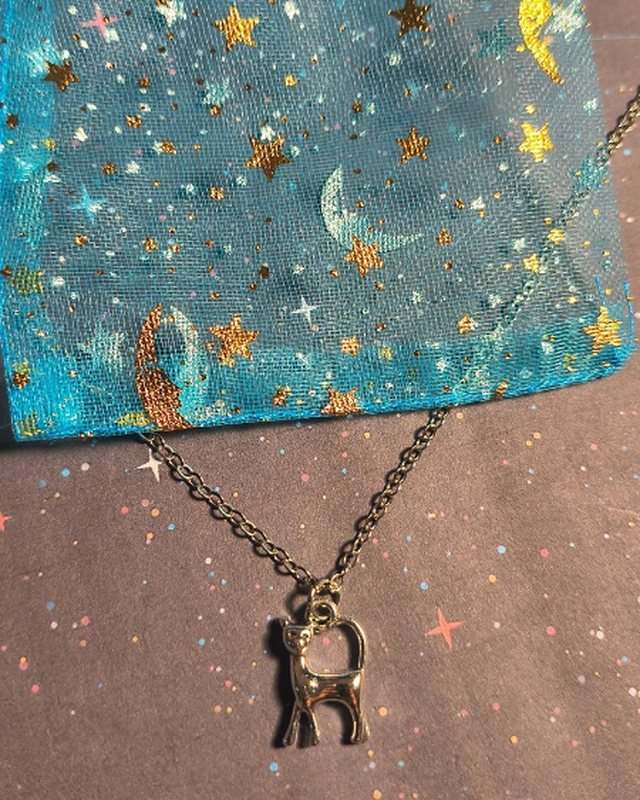
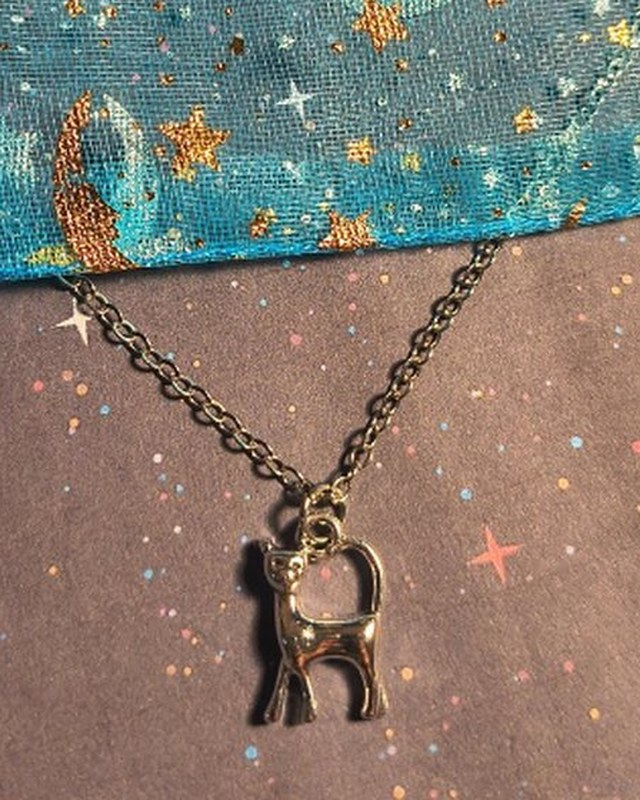
Show the whole product in every site photo
Necklace photos are now close-ups of the charm, the tee card shows the
whole shirt, and bookmark photos keep their full width.

diff --git a/index.html b/index.html
@@ -115,12 +115,12 @@
           <p data-i18n="c1.p">Laminated and full of character — some with tassels — for readers of every age.</p>
         </article>
         <article class="card">
-          <div class="pic"><img src="https://cdn.shopify.com/s/files/1/0777/9188/7412/files/ninjapod_media_4377434_616502_51_FRONT.jpg?v=1794958257&amp;width=600" alt="Legends Were Born in 1982 Bigfoot tee" loading="lazy"></div>
+          <div class="pic fit"><img src="https://cdn.shopify.com/s/files/1/0777/9188/7412/files/ninjapod_media_4377434_616502_51_FRONT.jpg?v=1794958257&amp;width=600" alt="Legends Were Born in 1982 Bigfoot tee" loading="lazy"></div>
           <h3 data-i18n="c2.t">Retro tees</h3>
           <p data-i18n="c2.p">Bigfoot, aliens and sunset stripes with a weathered vintage look.</p>
         </article>
         <article class="card">
-          <div class="pic"><img src="assets/necklace-rose.jpg" alt="Gold rose charm necklace" loading="lazy" style="object-position:50% 80%"></div>
+          <div class="pic charm"><img src="assets/necklace-rose.jpg" alt="Gold rose charm necklace" loading="lazy"></div>
           <h3 data-i18n="c3.t">Charm necklaces</h3>
           <p data-i18n="c3.p">One little charm on a dainty chain, packed up ready to gift.</p>
         </article>
@@ -136,7 +136,7 @@
           <p data-i18n="story.p2">From El Paso, we turn those dreams into bookmarks, coasters and charm necklaces made to brighten someone’s day.</p>
         </div>
         <div class="photos">
-          <img src="assets/bookmarks-polar-bear.jpg" alt="Polar bear laminated bookmarks" loading="lazy">
+          <img class="wide" src="assets/bookmarks-polar-bear.jpg" alt="Polar bear laminated bookmarks" loading="lazy">
           <img src="assets/necklace-reindeer.jpg" alt="Gold reindeer charm necklace" loading="lazy">
         </div>
       </div>

diff --git a/about.html b/about.html
@@ -20,7 +20,7 @@
 <p data-i18n="a.p1">Static &amp; Stardust began with a love of making things and making people happy. The name goes a little deeper: radio static is existence itself, the quiet hum that’s always been there beneath everything. Stardust is the possibility that can make anything one can dream.</p>
 <p data-i18n="a.p2">From El Paso, we turn those dreams into bookmarks, coasters and charm necklaces made to brighten someone’s day. Thanks for stopping by — we hope something here makes you smile.</p>
 <a class="btn btn-main" href="shop.html" data-i18n="a.cta">Visit the shop →</a></div>
-<div class="photos"><img src="assets/bookmarks-polar-bear.jpg" alt="Polar bear bookmarks" loading="lazy"><img src="assets/necklace-rose.jpg" alt="Gold rose charm necklace" loading="lazy"></div></div></section>
+<div class="photos"><img class="wide" src="assets/bookmarks-polar-bear.jpg" alt="Polar bear bookmarks" loading="lazy"><img src="assets/necklace-rose.jpg" alt="Gold rose charm necklace" loading="lazy"></div></div></section>
 
 <section id="family"><div class="tag" data-i18n="fam.tag">The family</div><h2 data-i18n="fam.title">A family of creatives &amp; sellers</h2>
 <div class="prose"><p data-i18n="fam.p">Static &amp; Stardust isn’t just one shop — we’re a family of creatives and sellers. Between us you’ll find handmade pieces, treasures and finds across Etsy, Shopify, eBay, Vinted and more.</p></div>

diff --git a/welcome.css b/welcome.css
@@ -221,3 +221,17 @@ html{background:#2a2d4d}
 .cards.two{grid-template-columns:repeat(2,1fr);max-width:760px}
 .cardgo{color:#d63f93;font-weight:800;margin-top:8px}
 @media (max-width:620px){.cards.two{grid-template-columns:1fr}}
+
+/* photo fixes: every picture shows the whole product */
+.card .pic{position:relative;display:block;background:#1b1b41}
+.card .pic img{position:absolute;inset:0;width:100%;height:100%;object-fit:cover}
+.card .pic.fit{background:#fff}
+.card .pic.fit img{object-fit:contain;padding:8px}
+.card .pic.charm img{object-position:50% 80%}
+.story .photos{align-items:center}
+.story .photos img{aspect-ratio:4/5;object-position:50% 70%}
+.story .photos img.wide{aspect-ratio:4/3;object-position:50% 50%}
+.story .photos img:nth-child(2){margin-top:0}
+.polaroid.p2 img{aspect-ratio:4/5;object-position:50% 60%}
+.polaroid.p3 img{aspect-ratio:4/3}
+.polaroid.p1 img{object-fit:contain;background:#fff}
